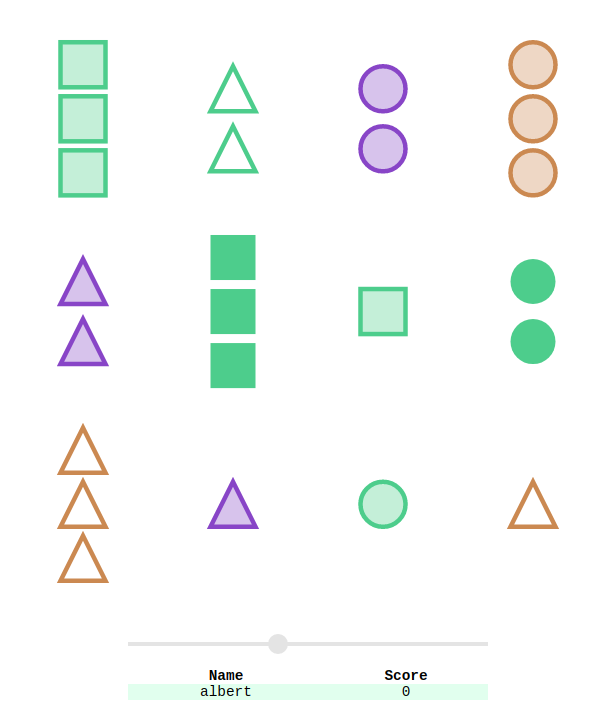
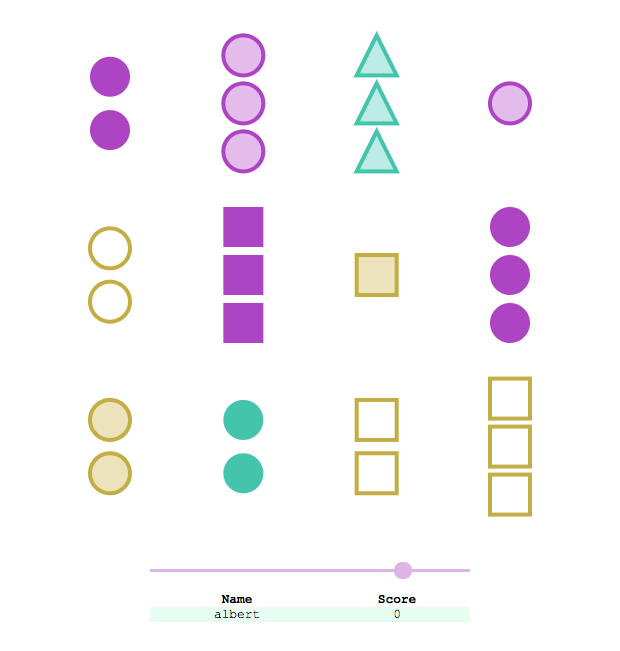
slider reflects current color

diff --git a/client/src/js/main.js b/client/src/js/main.js
@@ -8,6 +8,7 @@ var BASE = document.getElementById("base");
 var LEDGER = document.getElementById("ledger");
 var LOBBY = document.getElementById("lobby");
 var NAME = document.getElementById("name");
+var SLIDER;
 var WEBSOCKET;
 
 function randomColor() {
@@ -89,26 +90,34 @@ function client(name) {
     };
 }
 
+function setColor(element, hue) {
+    element.style.setProperty("--Color", "hsl(" + hue + ", 50%, 75%)");
+}
+
 window.addEventListener("load", function() {
     NAME.onkeypress = function(event) {
         if (event.keyCode === 13) {
             var name = NAME.value;
+            var red = RED.toString();
             if (name != "") {
                 document.body.removeChild(LOBBY);
                 client(name);
                 NAME.onkeypress = null;
             }
-            var slider = document.createElement("div");
-            slider.className = "center";
-            slider.innerHTML +=
-                "<input type=\"range\" min=\"0\" max=\"359\" value=\"" +
-                RED.toString() + "\" id=\"slider\">";
-            slider.oninput = function() {
-                TOKEN_COLOR = assignColors(
-                    parseInt(document.getElementById("slider").value), 10);
+            SLIDER = document.createElement("div");
+            SLIDER.className = "center";
+            SLIDER.innerHTML +=
+                "<input type=\"range\" min=\"0\" max=\"359\" value=\"" + red +
+                "\" id=\"slider\">";
+            SLIDER.oninput = function() {
+                var slider = document.getElementById("slider");
+                TOKEN_COLOR = assignColors(parseInt(slider.value), 10);
                 paintTokens();
+                setColor(document.getElementById("slider"),
+                         slider.value.toString());
             };
-            LEDGER.parentNode.insertBefore(slider, LEDGER);
+            LEDGER.parentNode.insertBefore(SLIDER, LEDGER);
+            setColor(document.getElementById("slider"), red);
         }
     };
 }, false);

diff --git a/client/src/style.css b/client/src/style.css
@@ -46,7 +46,8 @@ table {
     margin-right: 10%;
     width: 80%;
     height: 4px;
-    background: hsl(0, 0%, 85%);
+    --Color: hsl(0, 0%, 0%);
+    background: var(--Color);
     outline: none;
     opacity: 0.7;
 }
@@ -61,6 +62,6 @@ table {
     width: 22px;
     height: 22px;
     border-radius: 22px;
-    background: hsl(0, 0%, 85%);
+    background: var(--Color);
     cursor: pointer;
 }
